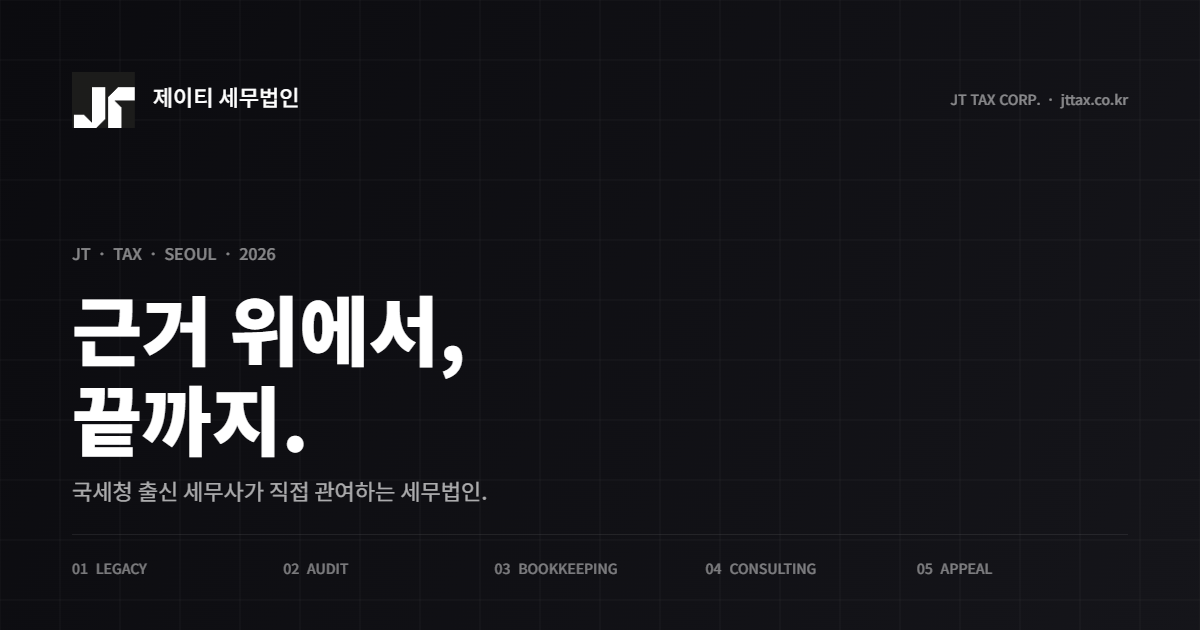
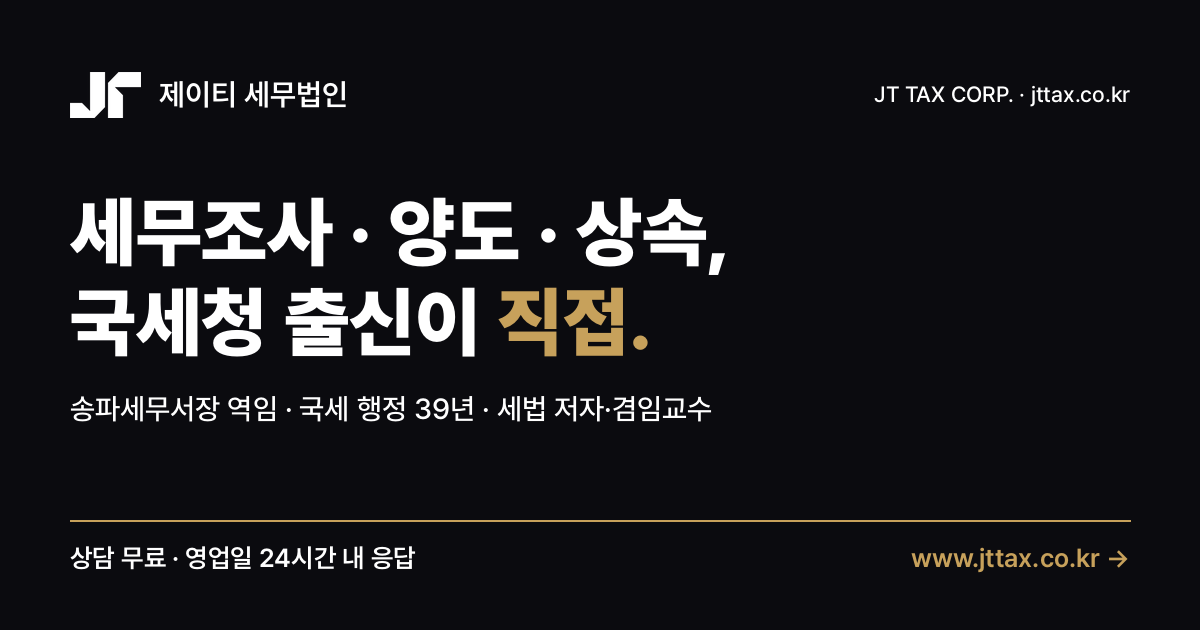
브랜딩: 앱 아이콘(홈화면/파비콘)·PWA manifest 추가 + 후킹 OG 공유이미지 교체

diff --git a/index.html b/index.html
@@ -30,9 +30,11 @@
   <meta name="twitter:description" content="국세청 출신 세무사가 직접 관여하는 대한민국 세무법인.">
   <meta name="twitter:image" content="https://www.jttax.co.kr/project/assets/og-image.png">
 
-  <!-- Favicon -->
-  <link rel="icon" href="project/assets/logo_symbol.png">
-  <link rel="apple-touch-icon" href="project/assets/logo_symbol.png">
+  <!-- Favicon & App Icons -->
+  <link rel="icon" type="image/png" sizes="32x32" href="project/assets/favicon-32.png">
+  <link rel="icon" type="image/png" sizes="16x16" href="project/assets/favicon-16.png">
+  <link rel="apple-touch-icon" sizes="180x180" href="project/assets/apple-touch-icon.png">
+  <link rel="manifest" href="manifest.json">
 
   <!-- 구조화 데이터 (JSON-LD) — 검색엔진에 비즈니스 정보를 제공 -->
   <script type="application/ld+json">